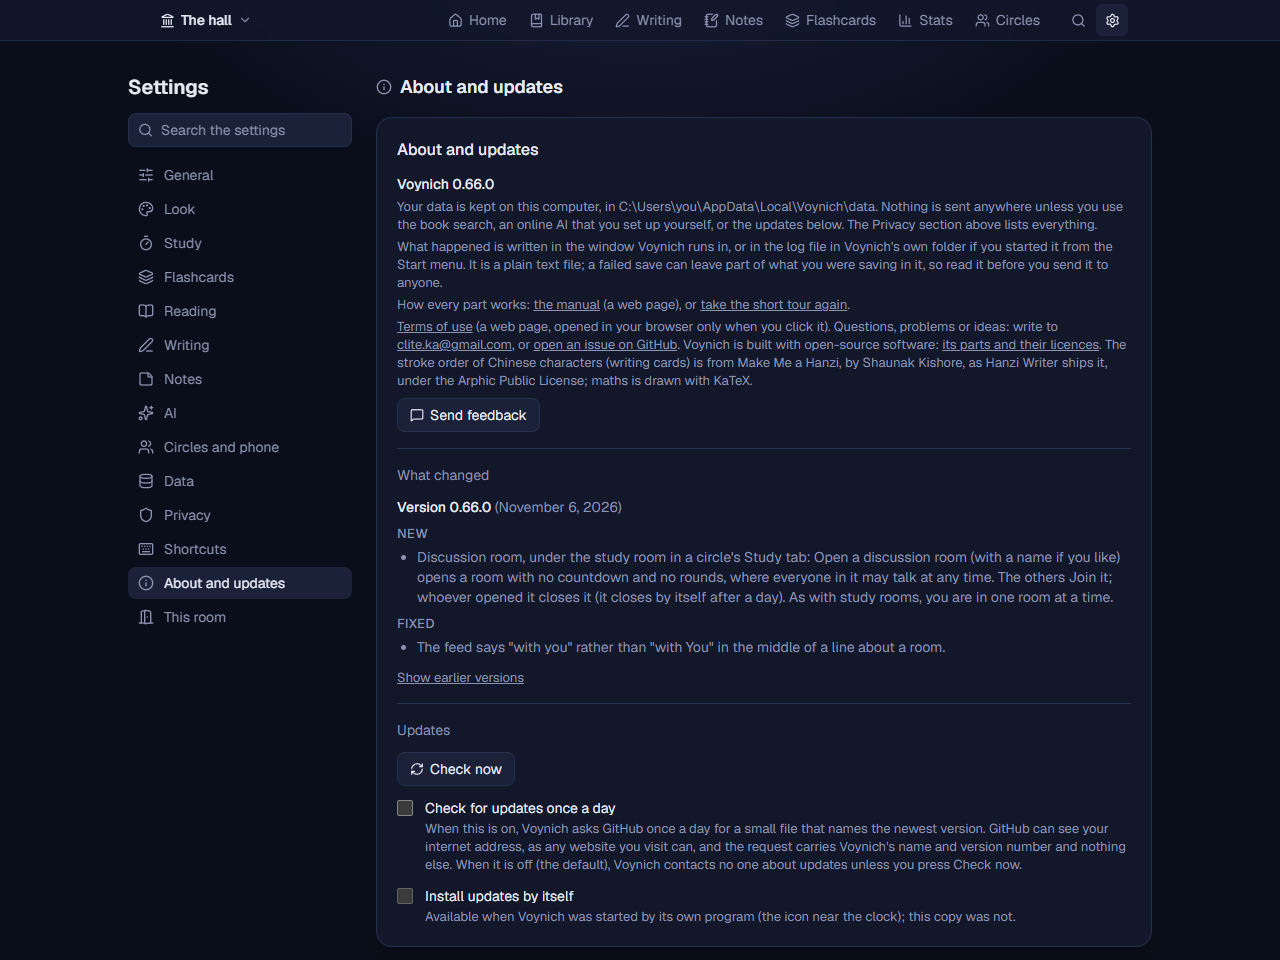
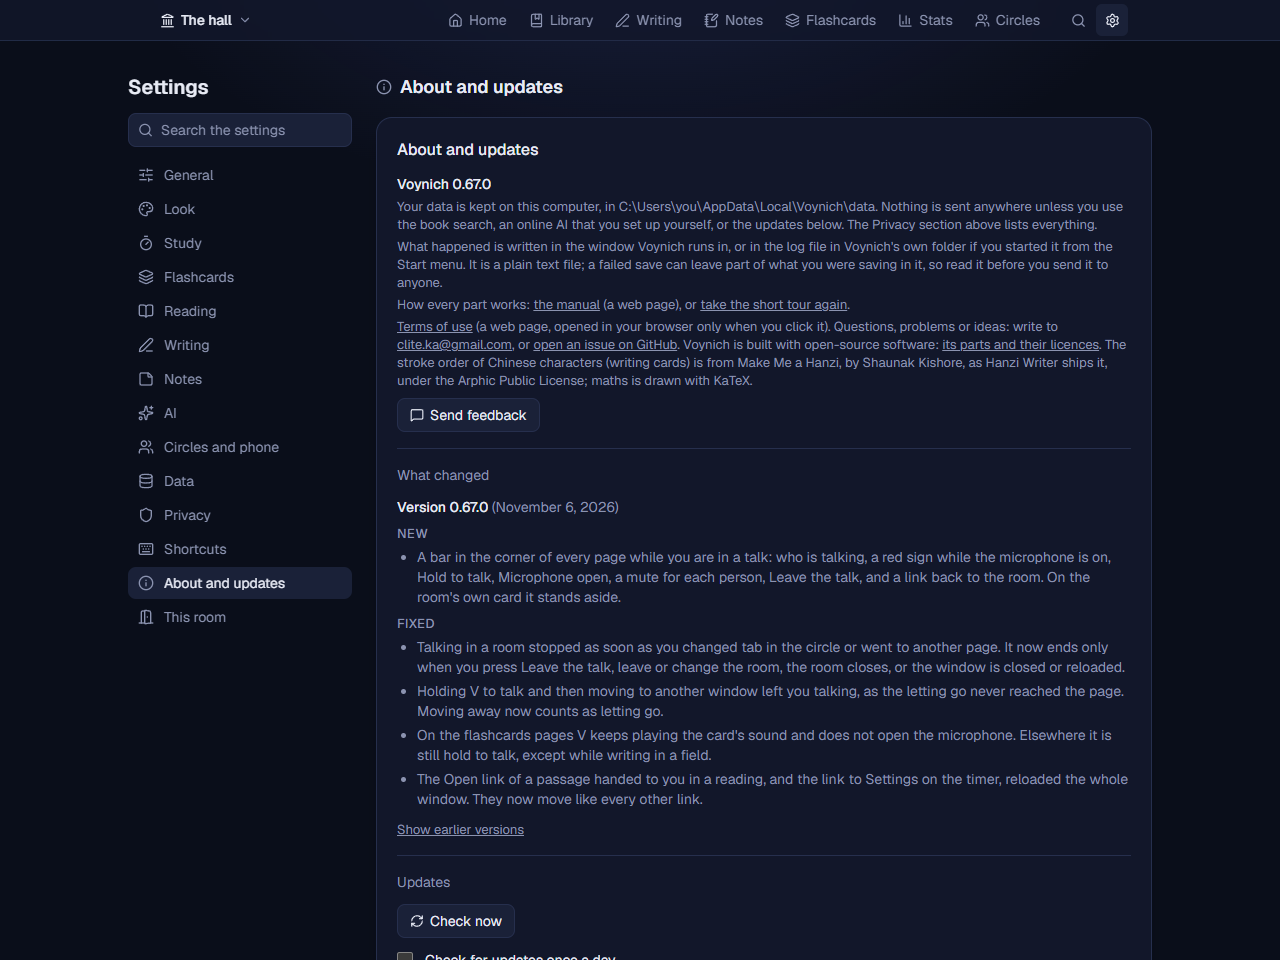
Update the site

diff --git a/docs/manual.html b/docs/manual.html
@@ -23,7 +23,7 @@
   </header>
 
   <h1>The full user manual</h1>
-  <p class="lead">Everything Voynich does, part by part. New here? Start with <a href="guide.html">Getting started in ten minutes</a>. This manual describes version 0.66.0; later versions may add things, and Settings, About and updates lists what changed.</p>
+  <p class="lead">Everything Voynich does, part by part. New here? Start with <a href="guide.html">Getting started in ten minutes</a>. This manual describes version 0.67.0; later versions may add things, and Settings, About and updates lists what changed.</p>
 
   <div class="layout">
     <nav class="toc" aria-label="Contents">
@@ -612,6 +612,7 @@
         <p>Each circle has a <strong>Chat</strong> (the hall, <em>Circles</em>, under the circle): write and press Enter (Shift+Enter for a new line). The <strong>microphone</strong> button beside it records a <strong>voice message</strong> of up to two minutes: a red sign says the microphone is on until you press <em>Stop</em>; then you listen to it, and <em>Send</em> or <em>Throw away</em>. Nothing goes before Send. Every member&rsquo;s Voynich gets the recording from whoever has it (a member who was away gets it later) and keeps it as long as the circle keeps its messages; members on an older Voynich see a line saying it is a voice message. A phone opens Voynich over plain http, which browsers give no microphone, so record on the computer (the phone plays them). Every member&rsquo;s Voynich keeps the messages for as long as the circle&rsquo;s maker chose (a week, 30 days, a year or for good; 30 days unless they change it), and members who were away get them from whoever is online when they come back. A message is signed by its writer, so nobody can write in someone else&rsquo;s name, and it cannot be taken back once sent. <em>new</em> beside Chat means something arrived since you last looked.</p>
         <p>The <strong>Study room</strong> is for studying together: one member presses <em>Open a study room</em> (25 minutes of study and a 5-minute break unless you change them, as many rounds as you like, starting now or in a few minutes), and the others press <strong>Join</strong>. Everyone in it sees the same countdown (worked out from the same start, so nothing has to keep it in step), and hears a short tone when a round or a break begins. The one who opened it closes it; it closes by itself an hour after its last round. And while your timer runs in a room you share with a circle, the circle sees &ldquo;studying now&rdquo; beside your name, with that room&rsquo;s name and since when.</p>
         <p id="room-talk"><strong>Talking in the room.</strong> In a study room you are in, <em>Talk in the room</em> lets its members talk to each other, over the circle, member to member. <strong>Hold to talk</strong> (the button, or hold <kbd>V</kbd> when you are not typing), or tick <em>Microphone open</em>; a red sign says whenever the microphone is on, and it is let go ten seconds after you stop. Beside each member is a sign while they talk and a button to mute them. You can talk in the breaks (and before the first round); whoever opens the room can tick <em>Let us talk while studying too</em>. Use headphones, or the others may hear themselves. Nothing of the talk is recorded or kept. It needs Chrome, Edge or Brave (the browser&rsquo;s own Opus encoder), and everyone in the room on Voynich 0.65 or later; a phone can join once it opens Voynich over HTTPS, which is not ready yet.</p>
+        <p id="talk-stays"><strong>The talk stays with you.</strong> Once you are in a talk, it goes on through the circle's tabs and every page of Voynich, with a bar in the corner of the page: who is talking, a red sign while the microphone is on, <strong>Hold to talk</strong>, <em>Microphone open</em>, a mute for each person under <em>People</em>, and <strong>Leave the talk</strong>. Its name takes you back to the room. It ends when you leave it, when you leave or change the room, when the room closes (the bar says so), or when the window is closed or reloaded. Leaving the talk does not take you out of the room. <kbd>V</kbd> works on every page, except while writing in a field and on the flashcards pages, where it plays the card's sound. A talk in another circle ends when you join one in this circle: one talk at a time.</p>
         <p id="discussion-room"><strong>The discussion room.</strong> Under the study room, in the same tab, <em>Open a discussion room</em> (with a name if you like) opens a room with no countdown and no rounds, where everyone in it may talk at any time, with the same <em>Talk in the room</em>. The others press <strong>Join</strong>; whoever opened it closes it, and it closes by itself after a day. You are in one room at a time: joining a discussion room leaves a study room, and the other way round. A member on Voynich 0.65 sees it as a long study room in which they may talk; on an older Voynich, as a long study room.</p>
         <p>How it sounds: in a test network with homes 30 ms apart, the voice took about 50 ms from one member to another, or 80 ms through a member who relays; on lines that lose packets the circle resends them, so Voynich waits up to a quarter of a second before playing when it has to, and nothing came too late even with 5% lost. Real homes have not been measured yet.</p>
         <h3>Removing someone, and leaving</h3>
